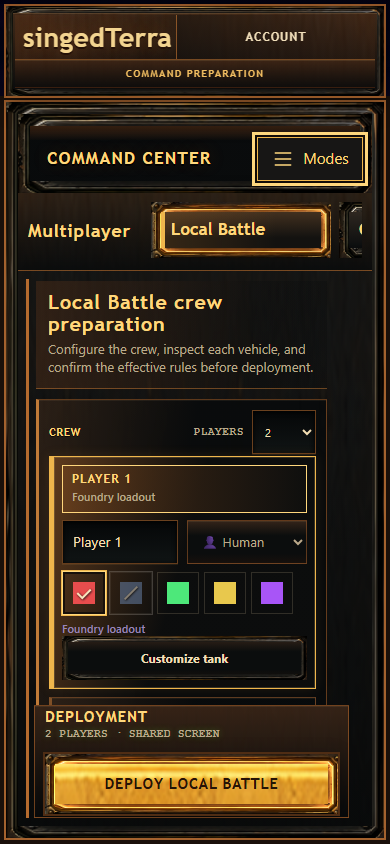
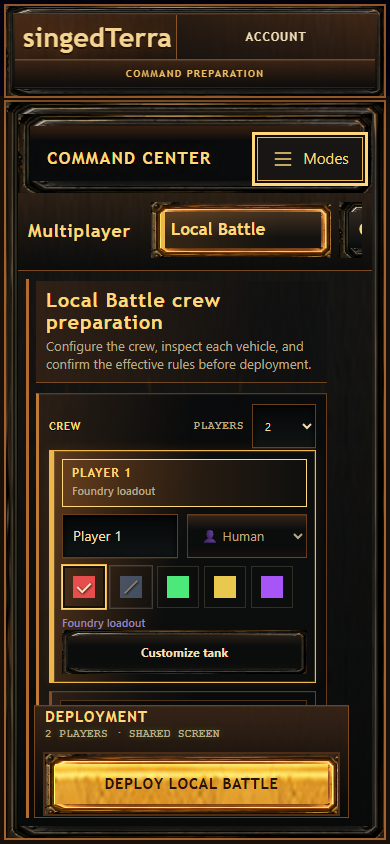
fix(command-center): stabilize narrow Local geometry
Add cross-platform layout margin for the first crew fold and selected vehicle inspection without weakening the responsive assertions.

Refresh the provenance-bound portrait evidence and record the hosted Linux failure correction.

Changed region(s): [[0.0923, 0.3389, 0.8308, 0.8318]]

diff --git a/client/src/ui/commandCenter/CommandCenter.css b/client/src/ui/commandCenter/CommandCenter.css
@@ -2687,7 +2687,7 @@
   }
 
   #lobby .multiplayer-command__local-workspace .lobby-preview__spotlight {
-    top: 34px;
+    top: 30px;
   }
 
   #lobby .multiplayer-command__local-workspace .lobby-preview__spotlight-canvas {
@@ -2735,6 +2735,11 @@
 }
 
 @container local-battle-setup (max-width: 460px) {
+  #lobby .multiplayer-command__local-workspace .lobby-local-preparation__header {
+    gap: 4px;
+    padding: 8px 10px 9px;
+  }
+
   #lobby .multiplayer-command__local-workspace .lobby-hotseat-body .lobby-row {
     grid-template:
       'selector selector' auto

diff --git a/.codearbiter/sprint-log.md b/.codearbiter/sprint-log.md
@@ -4807,3 +4807,8 @@ The fresh R07 review found no remaining CPU defect but identified a supported sa
 - Options weighed: recreate compatibility markup, relax the accepted direct-selection and controlled-scroll design, or migrate the stale contracts to the real public owner surfaces while fixing only reproduced product defects. The last option is strong: direct variants, closed loadout summaries, selected-vehicle inspection, semantic section names and the Vehicle Bay control scroller remain causal without reviving superseded UI.
 - Browser reproduction exposed two actual compact defects and both are corrected at the owning CSS seam: Local round controls now retain a 44px target, and the 802x293 Vehicle Bay uses a bounded two-column inspection that clears its docked Done action. Selected-part labels wrap or remove display-only tracking rather than shrinking below their established readable sizes.
 - Fresh local proof passes 97 affected production-browser cases with 46 designed project skips plus the candidate-network guard with its compiled origin declared; the focused cross-project correction matrix passes 27 applicable cases with three skips. All 2,506 client tests, the complete deterministic root check including the strict verified-duel benchmark, production build, ST1's 32 bound sources, zero-vulnerability audit, empty configured secret scan and diff hygiene pass. The 32-capture production evidence packet was regenerated from localhost 4174; T32 remains pending until the corrected exact PR head is committed, pushed, reviewed and green in hosted CI.
+## 2026-09-18 Command Center T32 Linux geometry correction - confidence: high - intent: keep the accepted Local and Garage hierarchy inside its narrow-screen bounds
+- Hosted run 35379338572 passed CodeQL, Edge, product browser, core browser shard 2, and the full engine/database/client/build job; core browser shard 1 exposed two repeatable pixel-touch geometry failures on Linux.
+- Kept both assertions intact. Moved the narrow selected-vehicle spotlight four pixels upward and tightened the narrow Local briefing header by six vertical pixels so Linux font metrics retain the selected tank within its inspection bay and at least 35 percent of Player 1 in the initial fold.
+- Fresh production proof: build/typecheck/ST1 passed; both exact failed pixel-touch cases passed; the 32-record provenance-bound Local/Garage evidence packet was regenerated and its 390x844 and 844x390 captures were visually inspected.
+- T32 remains PENDING until the corrected exact PR head is green in hosted CI. G02 remains PENDING for maintainer visual acceptance. No merge or deployment was performed.

diff --git a/.codearbiter/evidence/command-center-workspace-finish/REVIEW.md b/.codearbiter/evidence/command-center-workspace-finish/REVIEW.md
@@ -1,13 +1,13 @@
 # Command Center workspace finish evidence
 
-- HEAD: `2617788a74490d899a7bee50d31c02e7574d1d4a`
+- HEAD: `02d3f70e28408d2bb66545a70e90b6c5b4ce0579`
 - Merge base with `origin/main`: `e332f3c2d1ddb9c0b549b7e34c5906872308becb`
 - Branch: `codex/command-center-launcher`
 - Source dirty at capture: `true`
[3 lines of base64/hex data omitted]
-- Browser command: `E2E_LIVE_URL=http://localhost:4174 npx playwright test e2e/pregame-command-center.spec.ts --project=desktop-fine --grep "retains native Local and Garage captures"`
[3 lines of base64/hex data omitted]
+- Browser command: `E2E_LIVE_URL=http://localhost:4174 COMMAND_CENTER_WORKSPACE_EVIDENCE_DIR=.codearbiter/evidence/command-center-workspace-finish npx playwright test e2e/pregame-command-center.spec.ts --project=desktop-fine --grep "retains native Local"`
 
 | State | Viewport | DPR | Zoom/reflow | Capture |
 |---|---:|---:|---|---|
